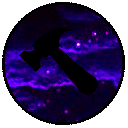
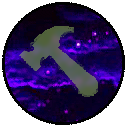
Zors.o: light see-through glyphs on construction and upgrade (interim)
tools/zors_glyphs.py turns the black glyphs of Zors.o's under_construction and
upgrade icons into the extinguisher's light see-through look (the glyph found
as the largest pure-black area, the nebula behind it rebuilt). Interim until
the icons are regenerated in one style.

Changed region(s): [[0.125, 0.1875, 0.7812, 0.7812]]

diff --git a/tools/zors_glyphs.py b/tools/zors_glyphs.py
@@ -1,0 +1,109 @@
+"""Zors.o's under_construction and upgrade icons have black glyphs; the extinguisher's is a
+light see-through one. Make those two glyphs light and see-through the same way:
+find the black glyph inside the disc, rebuild the nebula behind it from the pixels around,
+then lay the extinguisher's tint over it at half opacity.
+
+    py -3 tools\\zors_glyphs.py <in.dds> <out.dds> [preview.png]
+"""
+import sys
+
+from PIL import Image, ImageFilter, DdsImagePlugin  # noqa: F401 (registers DDS)
+
+# The extinguisher glyph reads as (90, 97, 74) over the dark violet ground (27, 0, 51):
+# that is this tint at 50%.
+TINT, ALPHA = (153, 194, 97), 0.5
+DISC = 56  # glyph area radius; the dark ring of the disc lies outside it
+
+
+def glyph_mask(im):
+    """The black glyph only: the largest connected area of near-black pixels inside the
+    disc (dark patches of the nebula are smaller and not pure black), widened by its
+    anti-aliased edge."""
+    w, h = im.size
+    px = im.load()
+    inside = lambda x, y: ((x - w / 2) ** 2 + (y - h / 2) ** 2) ** 0.5 <= DISC
+    core = {(x, y) for y in range(h) for x in range(w) if inside(x, y) and max(px[x, y][:3]) < 6}  # the glyph is pure black; dark nebula is (8, 0, 16) and up
+    best, seen = set(), set()
+    for start in core:
+        if start in seen:
+            continue
+        area, stack = set(), [start]
+        while stack:
+            p = stack.pop()
+            if p in seen or p not in core:
+                continue
+            seen.add(p)
+            area.add(p)
+            x, y = p
+            stack += [(x + 1, y), (x - 1, y), (x, y + 1), (x, y - 1)]
+        if len(area) > len(best):
+            best = area
+    mask = Image.new("L", im.size)
+    out = mask.load()
+    for x, y in best:
+        out[x, y] = 255
+    # the edge: dark-ish pixels touching the glyph, by how dark they are
+    edge = mask.filter(ImageFilter.MaxFilter(5)).load()
+    for y in range(h):
+        for x in range(w):
+            if edge[x, y] and not out[x, y] and inside(x, y):
+                out[x, y] = round(min(max((80 - max(px[x, y][:3])) / 58, 0), 1) * 255)
+    return mask
+
+
+def fill_behind(im, mask, rounds=60):
+    """Rebuild the nebula under the glyph: grow the known pixels inwards."""
+    w, h = im.size
+    src = im.load()
+    known = [[mask.getpixel((x, y)) < 128 for x in range(w)] for y in range(h)]
+    colour = [[src[x, y][:3] for x in range(w)] for y in range(h)]
+    for _ in range(rounds):
+        changed = False
+        new_known = [row[:] for row in known]
+        for y in range(h):
+            for x in range(w):
+                if known[y][x]:
+                    continue
+                acc, n = [0, 0, 0], 0
+                for dx, dy in ((1, 0), (-1, 0), (0, 1), (0, -1), (1, 1), (-1, -1), (1, -1), (-1, 1)):
+                    xx, yy = x + dx, y + dy
+                    if 0 <= xx < w and 0 <= yy < h and known[yy][xx]:
+                        c = colour[yy][xx]
+                        acc = [acc[i] + c[i] for i in range(3)]
+                        n += 1
+                if n:
+                    colour[y][x] = tuple(v // n for v in acc)
+                    new_known[y][x] = True
+                    changed = True
+        known = new_known
+        if not changed:
+            break
+    filled = im.copy()
+    fp = filled.load()
+    for y in range(h):
+        for x in range(w):
+            fp[x, y] = colour[y][x] + (src[x, y][3],)
+    # soften the rebuilt patch so it does not look like flat streaks
+    blurred = filled.filter(ImageFilter.GaussianBlur(2))
+    return Image.composite(blurred, filled, mask.filter(ImageFilter.MaxFilter(5)))
+
+
+def lighten(path_in, path_out):
+    im = Image.open(path_in).convert("RGBA")
+    mask = glyph_mask(im)
+    ground = fill_behind(im, mask)
+    tint = Image.new("RGBA", im.size, TINT + (255,))
+    over = Image.blend(ground, tint, ALPHA)
+    out = Image.composite(over, ground, mask)
+    out.putalpha(im.getchannel("A"))
+    out.save(path_out, "DDS")
+    return im, out
+
+
+if __name__ == "__main__":
+    before, after = lighten(sys.argv[1], sys.argv[2])
+    if len(sys.argv) > 3:
+        sheet = Image.new("RGBA", (128 * 2 + 10, 128), (60, 60, 60, 255))
+        sheet.alpha_composite(before, (0, 0))
+        sheet.alpha_composite(after, (138, 0))
+        sheet.resize((sheet.width * 3, sheet.height * 3), Image.NEAREST).save(sys.argv[3])

diff --git a/tools/build_layouts.py b/tools/build_layouts.py
@@ -14,6 +14,9 @@ import sys
 
 from PIL import Image, DdsImagePlugin  # noqa: F401 (registers DDS)
 
+sys.path.insert(0, os.path.dirname(os.path.abspath(__file__)))
+import zors_glyphs  # noqa: E402
+
 ROOT = os.path.dirname(os.path.dirname(os.path.abspath(__file__)))
 ICONS = ["extinguisher", "under_construction", "under_construction_grey", "repair", "repair_grey"]
 
@@ -80,6 +83,10 @@ def main(game, payload, assets):
         for t in targets:
             os.makedirs(os.path.dirname(t), exist_ok=True)
             shutil.copy2(src, t)
+    # Construction and upgrade get the extinguisher's light see-through glyph (asked by Zors.o).
+    for name in ("under_construction", "upgrade"):
+        path = os.path.join(zors, "textures", name + ".dds")
+        zors_glyphs.lighten(path, path)
     os.makedirs(mini)
     shutil.copy2(os.path.join(tp, "minimalist", "screens", "hud.lua"), os.path.join(mini, "hud.lua"))
     copy_tree(os.path.join(tp, "minimalist", "textures"), os.path.join(mini, "textures"))
